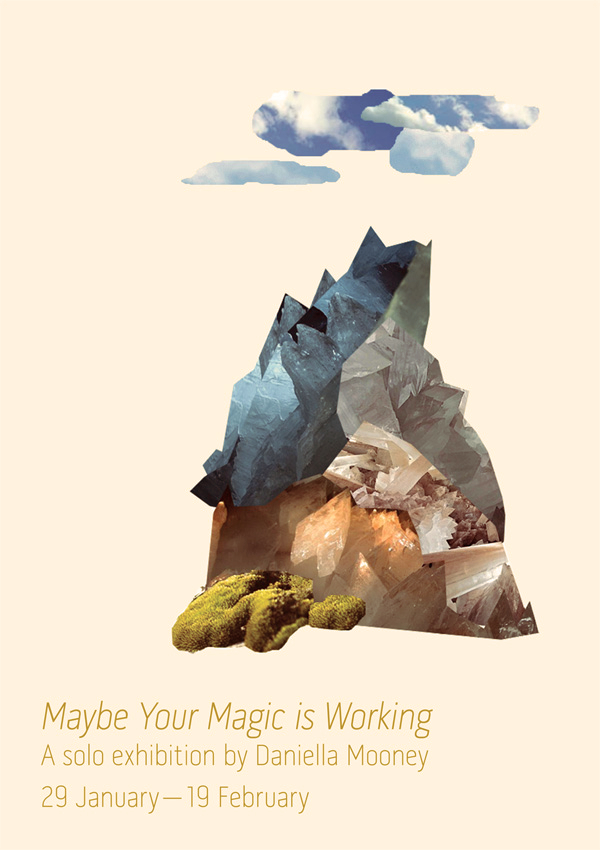
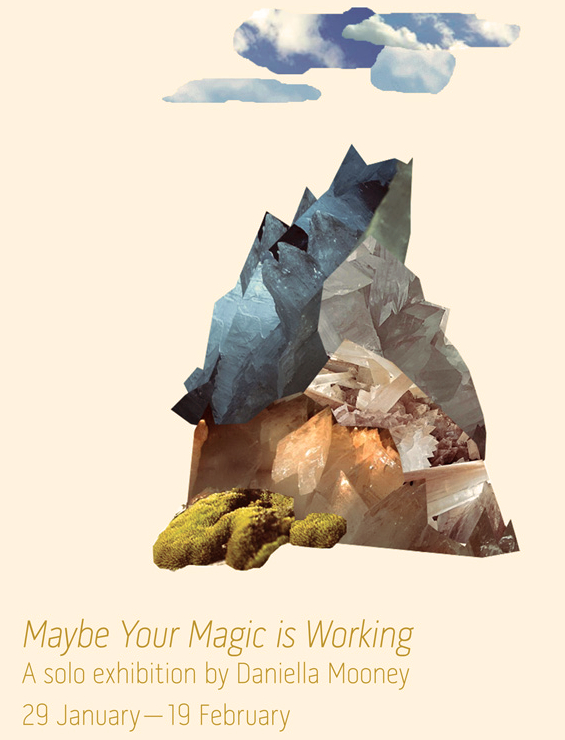
newnew updates

Changed region(s): [[0.2708, 0.0, 0.9327, 0.777], [0.0301, 0.8081, 0.7522, 0.9946]]

diff --git a/pages/exhibitions/exhibitions.html b/pages/exhibitions/exhibitions.html
@@ -36,8 +36,8 @@
     }
     .gallery img {
       width: 100%;
-      aspect-ratio: 1 / 1;
-      object-fit: cover;
+      aspect-ratio: 4 / 3;
+      object-fit: contain;
       display: block;
     }
     .gallery a:hover img {
@@ -47,6 +47,9 @@
       font-size: 1.3rem;
       font-style: italic;
       margin-top: 8px;
+    }
+    .gallery figcaption a {
+      color: blue;
     }
     /* On small phones, stack the images one per row */
     @media (max-width: 550px) {
@@ -94,12 +97,12 @@
 
           <figure>
             <a href="golden_age_rising/golden_age_rising.html"><img src="images/1.jpg" alt="Golden Age Rising"></a>
-            <figcaption><a href="golden_age_rising/golden_age_rising.html">Golden age rising, 2014</a></figcaption>
+            <figcaption><a href="golden_age_rising/golden_age_rising.html">Golden Age Rising, 2014</a></figcaption>
           </figure>
 
           <figure>
             <a href="maybe_your_magic/maybe_your_magic.html"><img src="images/2.jpg" alt="Maybe Your Magic Is Working"></a>
-            <figcaption><a href="maybe_your_magic/maybe_your_magic.html">Maybe your magic is working, 2011</a></figcaption>
+            <figcaption><a href="maybe_your_magic/maybe_your_magic.html">Maybe Your Magic Is Working, 2011</a></figcaption>
           </figure>
 
         </div>
